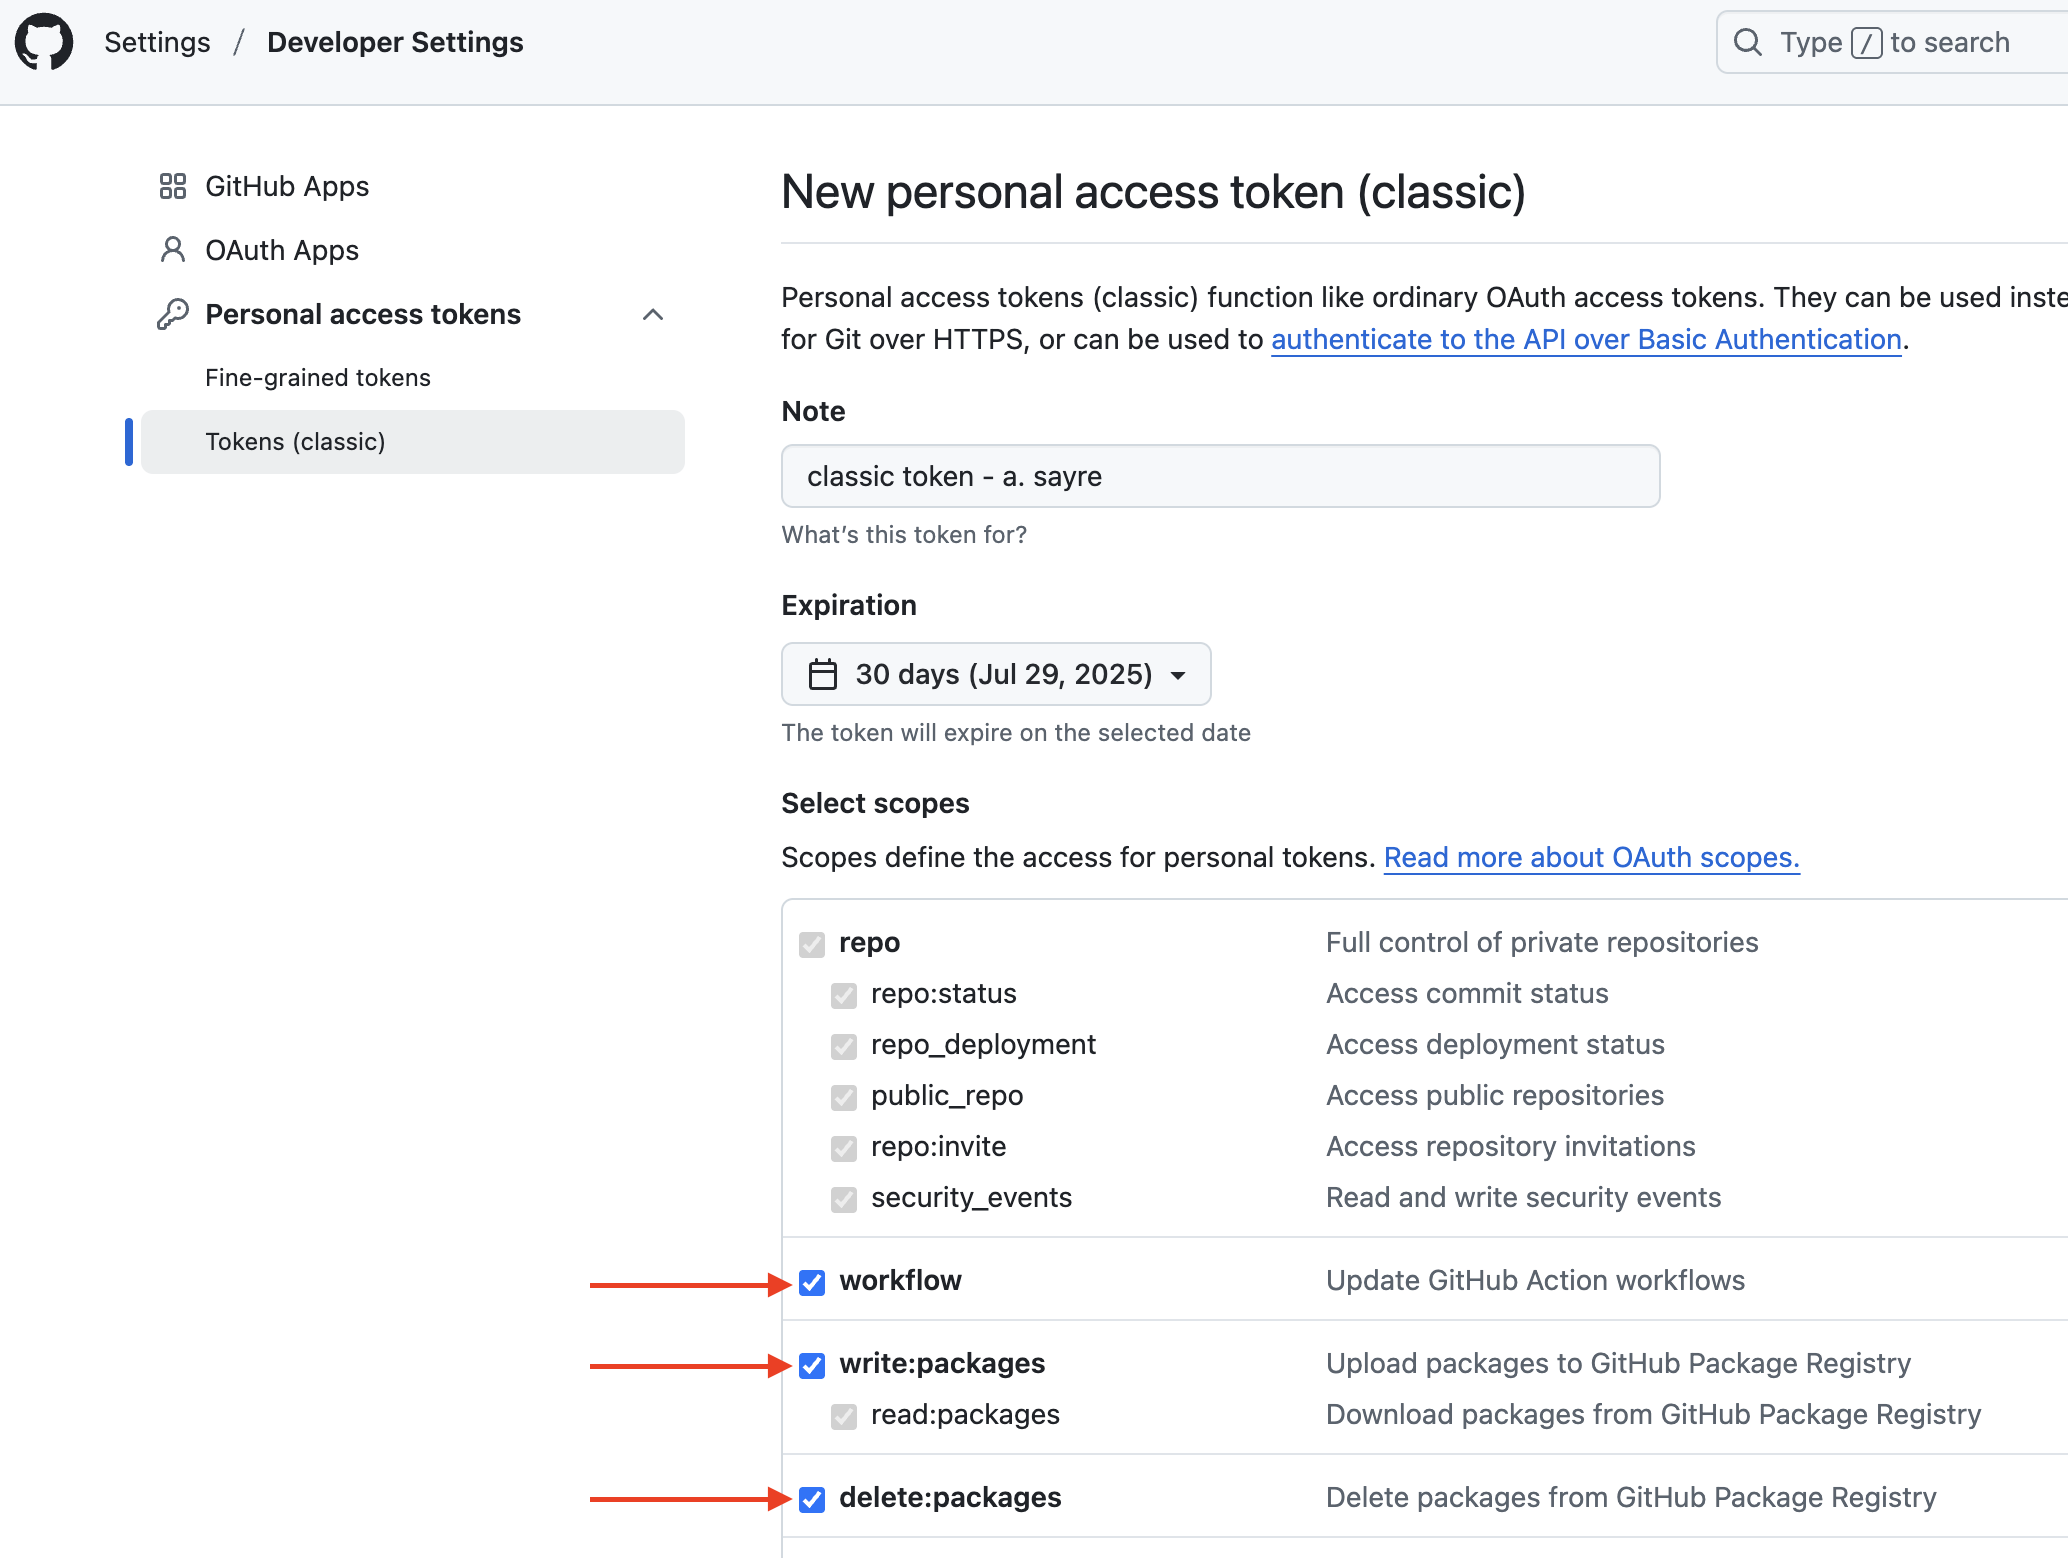
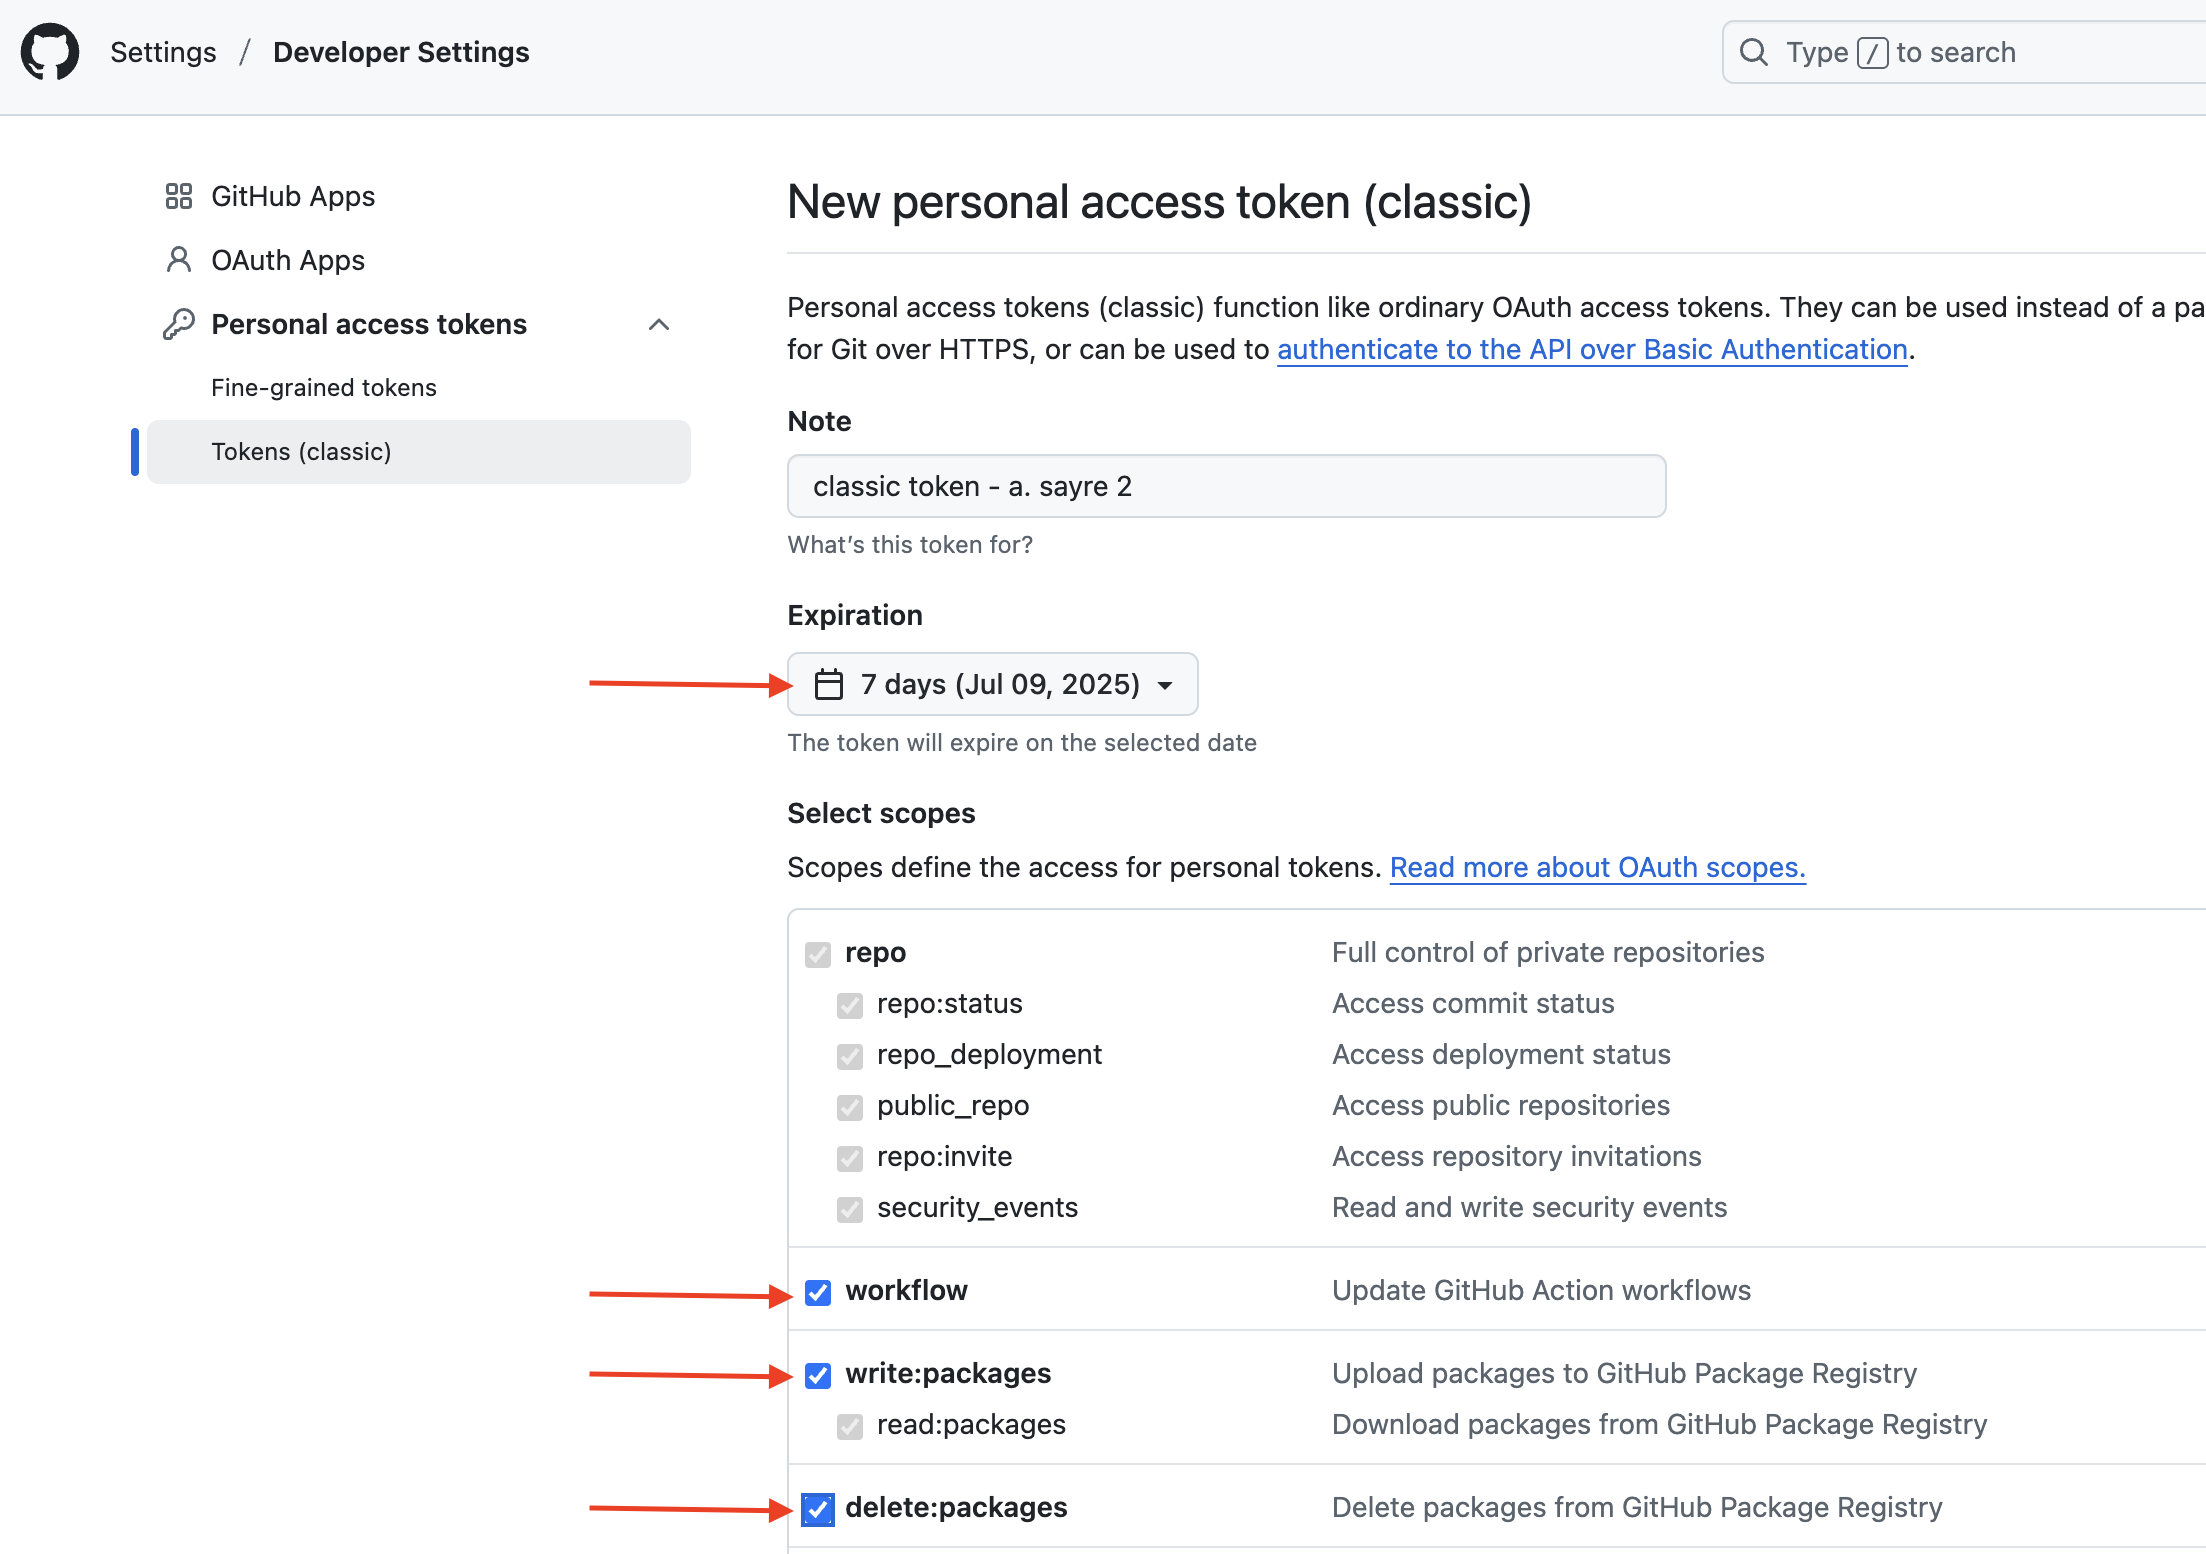
new graphics for github

diff --git a/labs/01_github/README.md b/labs/01_github/README.md
@@ -121,7 +121,9 @@ Again, ensure you are logged into GitHub, and navigate to [personal access token
 
 ![image](classic-api-token.png?)
 
-Choose the below permissions for the token, default token expiration date should be ok.
+Choose the below permissions for the token
+
+> IMPORTANT: set an early expiration date for this token (for security hygiene purposes)
 
 ![image](classic-api-token-settings.png?)
 
@@ -134,7 +136,6 @@ New token will generate, copy it to a text file.
 ```bash
 open -a TextEdit 
 ```
-
 
 Add **your** token to your `~/.zshrc`
 
@@ -229,13 +230,13 @@ anthony.sayre@AnthonySayres-MacBook-Pro app-building-for-chainguard-tsms % ~/cha
 
 ---
 
-#### Why API?
+Q: What did we just do?
 
-Using Application Programming Interfaces (API's) allow us to control services without clicking around a user interface.  In this case, we're not passing any arguments when we create the repo.  But we could.  If you want to standardize all the repositories for your organization, using the API will ensure a faster, more consistent process.
+A: We created a new repo at GitHub, then cloned the new (empty) repo locally
 
-![image](create_repo_gitlab.png?)
+![image](create_repo_github.png?)
 
-![image](git_clone_repo_gitlab.png?)
+![image](git_clone_repo_github.png?)
 
 ---
 

diff --git a/labs/00_bash_cloudshell/README.md b/labs/00_bash_cloudshell/README.md
@@ -482,9 +482,9 @@ Let's try to install this using a commands that can work without OS specific pac
 
 Go to your [Chainguard Google account](https://console.cloud.google.com/) and sign-in
 
-Click to activate your Google Cloud Shell:
+Click to activate your Google Cloud Shell (upper right corner):
+
 ![image](google-cloud-shell.png?)
-> Note: Upper right corner
 
 
 Enter this command at the cloud shell prompt:
